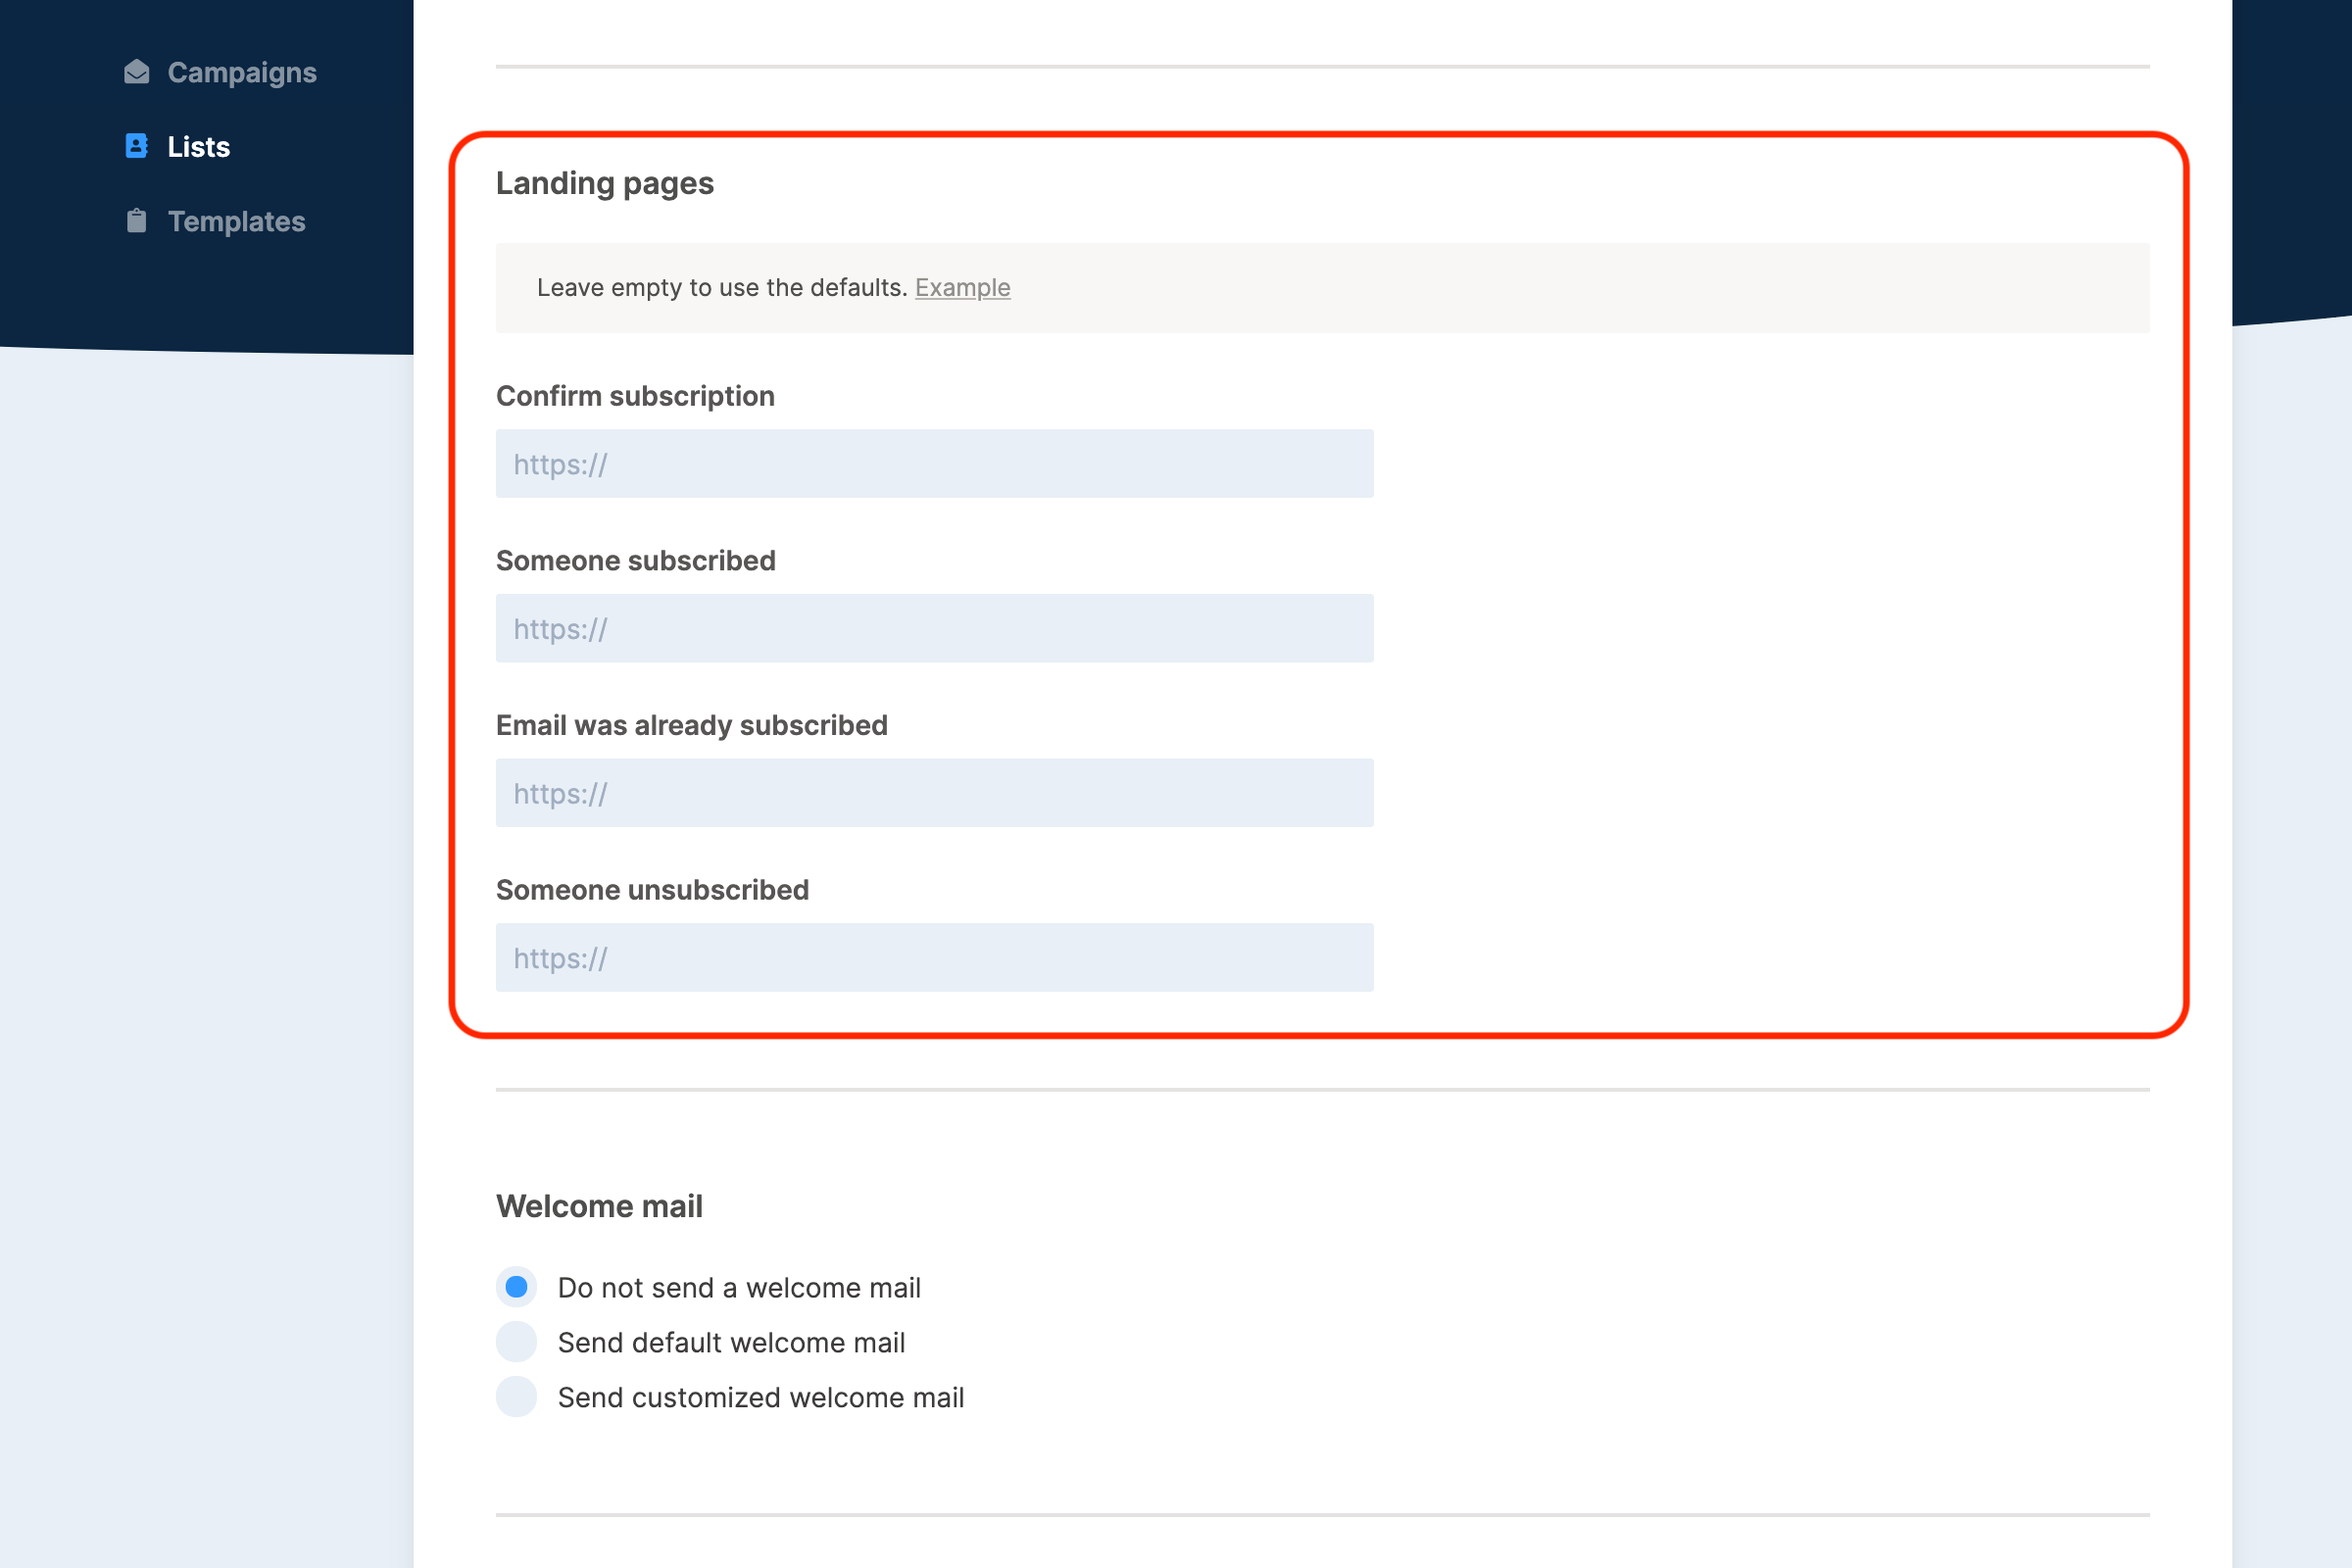
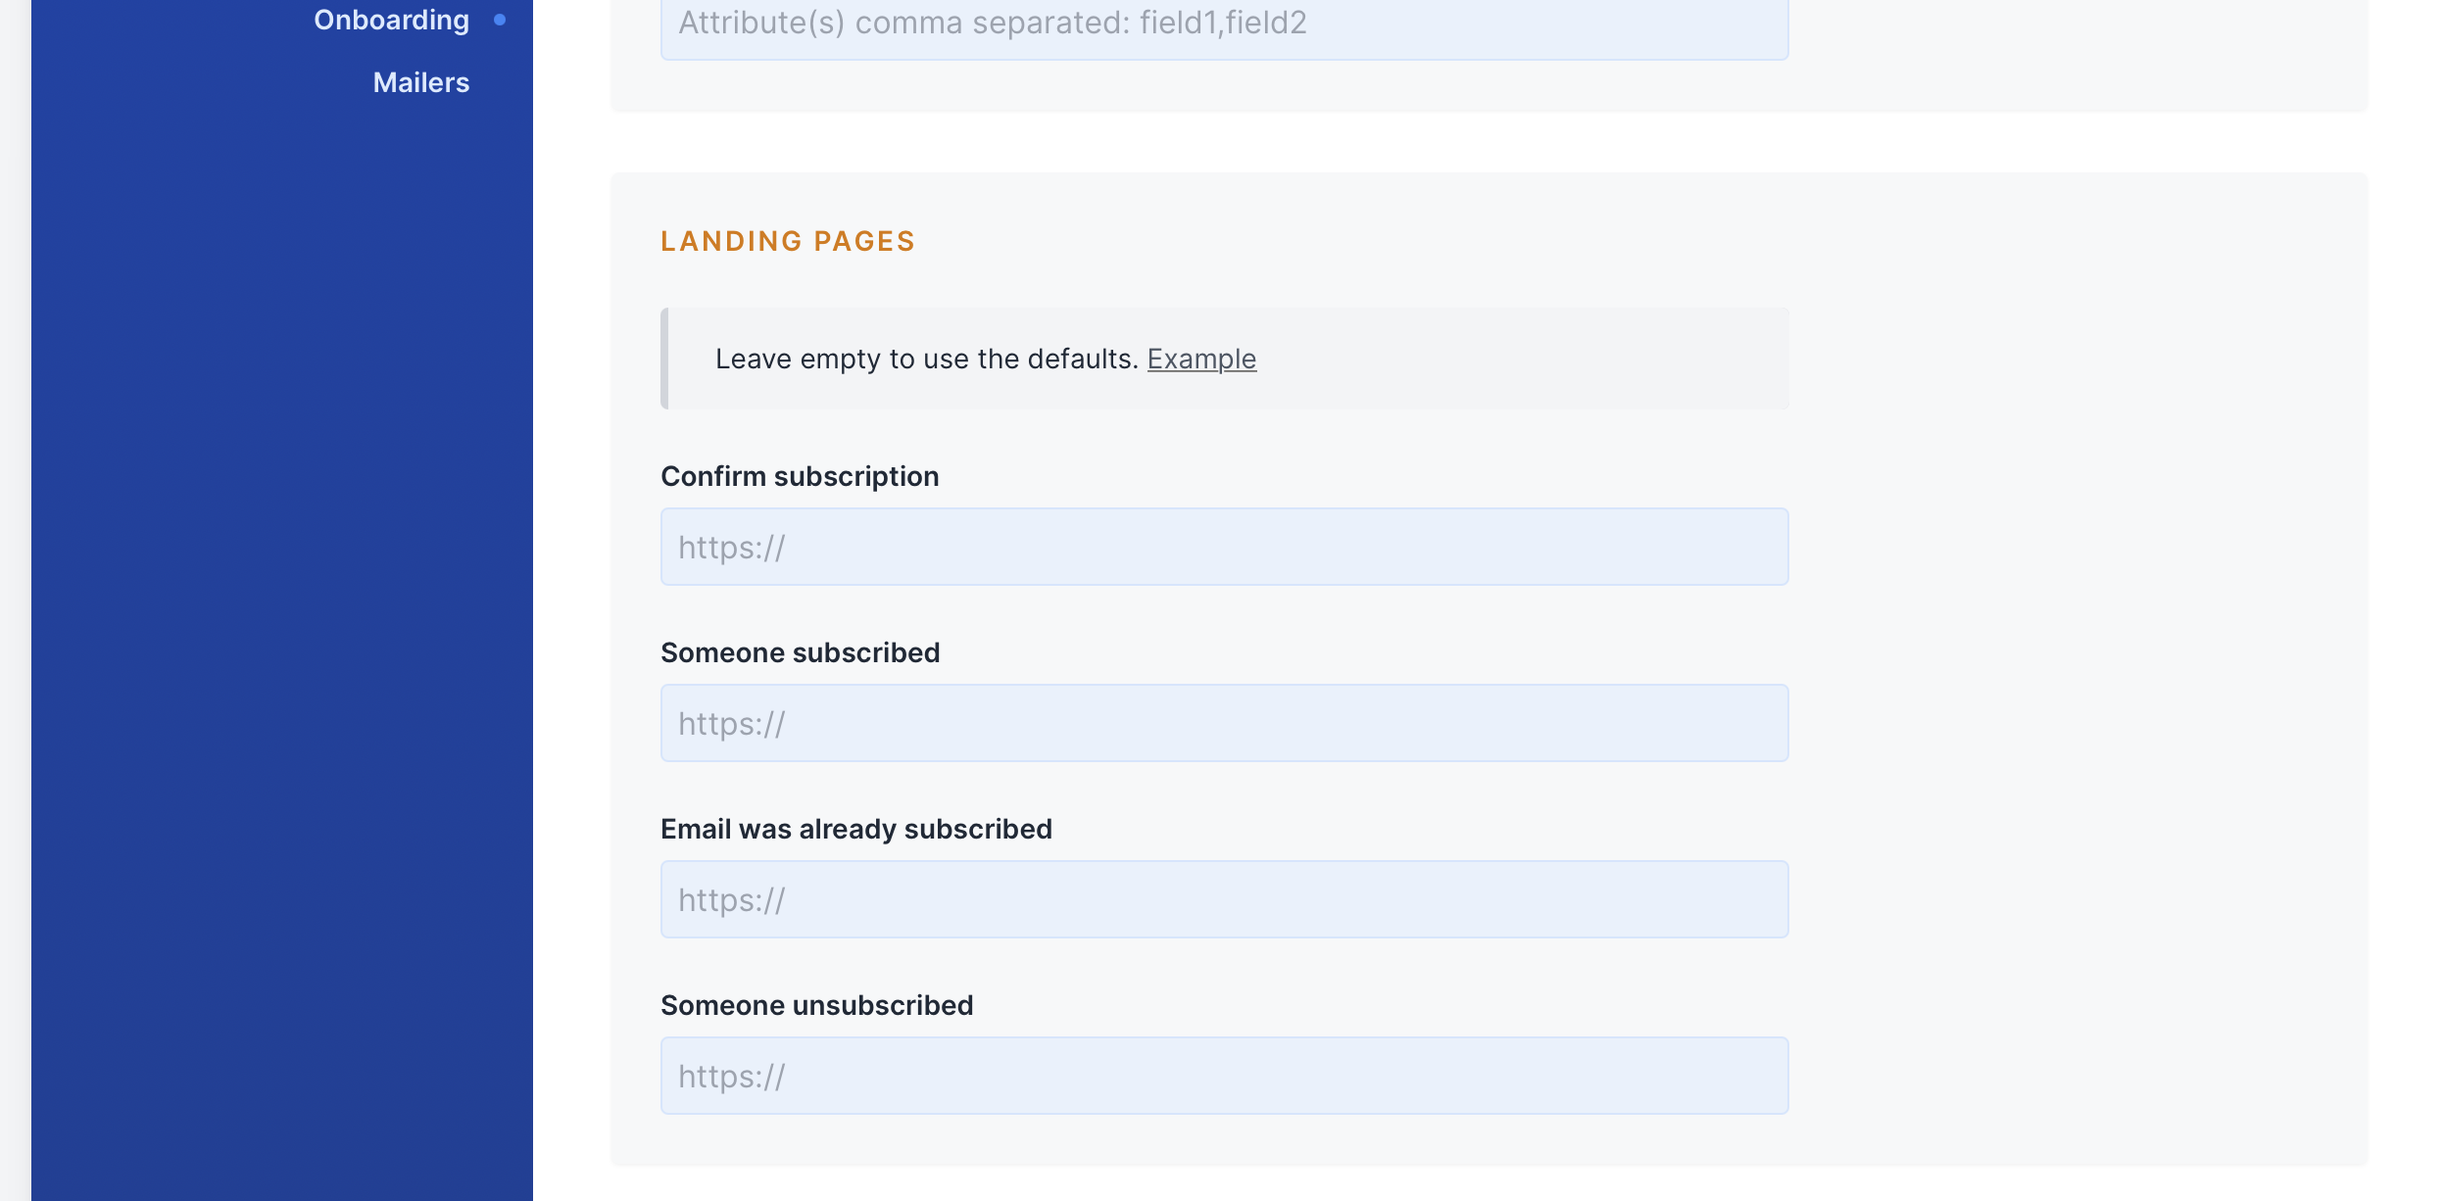
lists

Changed region(s): [[0.0, 0.0, 1.0, 1.0], [0.25, 0.155, 0.4062, 0.217], [0.9375, 0.9608, 0.9688, 1.0]]

diff --git a/docs/using-mailcoach/audience.md b/docs/using-mailcoach/audience.md
@@ -83,7 +83,7 @@ You can also publish the mailing list to a public URL, to be consumed by an RSS 
 
 ![screenshot](/docs/laravel-mailcoach/v4/images/lists/settings-reports.png)
 
-You and your colleagues can receive some statistics about this list and any campaigns sent to it. Fill in all the email addresses you want to send these reports to in the "To…" field, each separated by a comma.
+You and your colleagues can receive some statistics about this list and any campaigns sent to it. Fill in all the email addresses you want to send these reports to in the "Email…" field, each separated by a comma.
 
 - "Confirmation when a campaign gets sent to this list": Receive an email when a campaign is **sent**. If you scheduled a campaign, this report will be sent when the scheduled date is reached.
 
@@ -97,23 +97,17 @@ You and your colleagues can receive some statistics about this list and any camp
 
 ![screenshot](/docs/laravel-mailcoach/v4/images/lists/reports-list-summary.png)
 
-### Subscriptions
+### Onboarding
 
 #### Require confirmation (double opt-in)
+
+![screenshot](/docs/laravel-mailcoach/v4/images/lists/onboarding.png)
 
 When checking the "Require confirmation" checkbox, Mailcoach will send double opt-in emails to new subscribers. This will require them to confirm their email address before receiving any emails. By default, this email will include a link to a Mailcoach page, asking the person to confirm their subscription.
 
 This option can be enabled to prevent spam, both to and from your mailing list. If you disable this option and have a public-facing subscription form, you can reasonably expect a lot of bots to subscribe to your mailing list, causing your mailing costs to go up, reports to be skewed and a general decline in the health of your list.
 
-You can also configure Mailcoach to use a custom page and/or send out custom confirmation emails that you created yourself. Refer to the 2 options that become available when checking this box:
-
-- [Confirm subscription](/docs/laravel-mailcoach/v4/lists/settings#landing-pages) in the _Landing pages_ section.
-
-- [Confirmation mail](/docs/laravel-mailcoach/v4/lists/settings#confirmation-mail) at the bottom of the page.
-
 #### Allow POST from an external form
-
-![screenshot](/docs/laravel-mailcoach/v4/images/lists/settings-subscriptions-external-form.png)
 
 By enabling this option, you can create forms on your website that allow people to subscribe themselves to your list. Simply set the action (endpoint) of your form to the URL that was generated for this mailing list, and make sure to send at least a value for the "email" field in form submits, like so:
 
